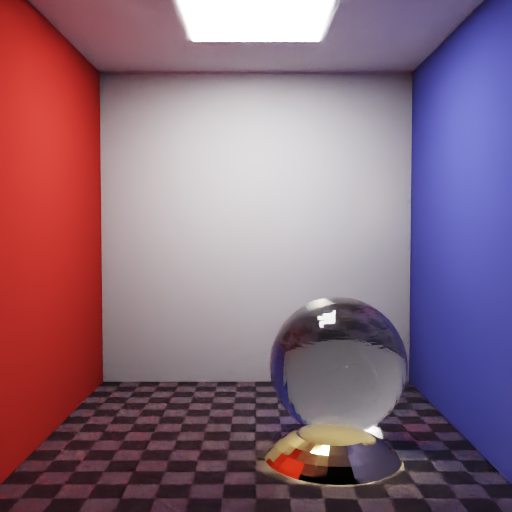
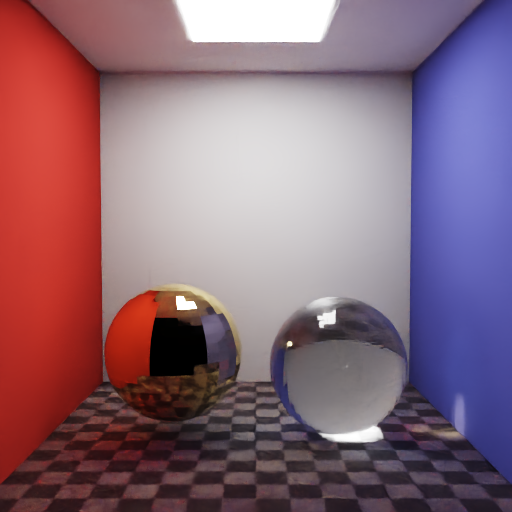
Update Cornell Box test: gold sphere on left, glass sphere on right - both rendering correctly

diff --git a/libWR/test/cornell_box_var_test.cpp b/libWR/test/cornell_box_var_test.cpp
@@ -77,11 +77,11 @@ void buildCornellBoxVar(Scene* scene) {
         scene->addTriangleMesh(std::span(verts), std::span(inds), glassMat);
     }
     
-    // Gold metal sphere on the left (using sphere to test if material works)
+    // Gold metal sphere on the left
     {
         std::vector<float> verts;
         std::vector<uint32_t> inds;
-        createSphere(verts, inds, 0.5f, -0.4f, 0.5f, 0.6f, 32, 24);  // Gold sphere
+        createSphere(verts, inds, -0.6f, 0.6f, 0.0f, 0.5f, 32, 24);  // Gold sphere on left
         scene->addTriangleMesh(std::span(verts), std::span(inds), goldMat);
     }
     
